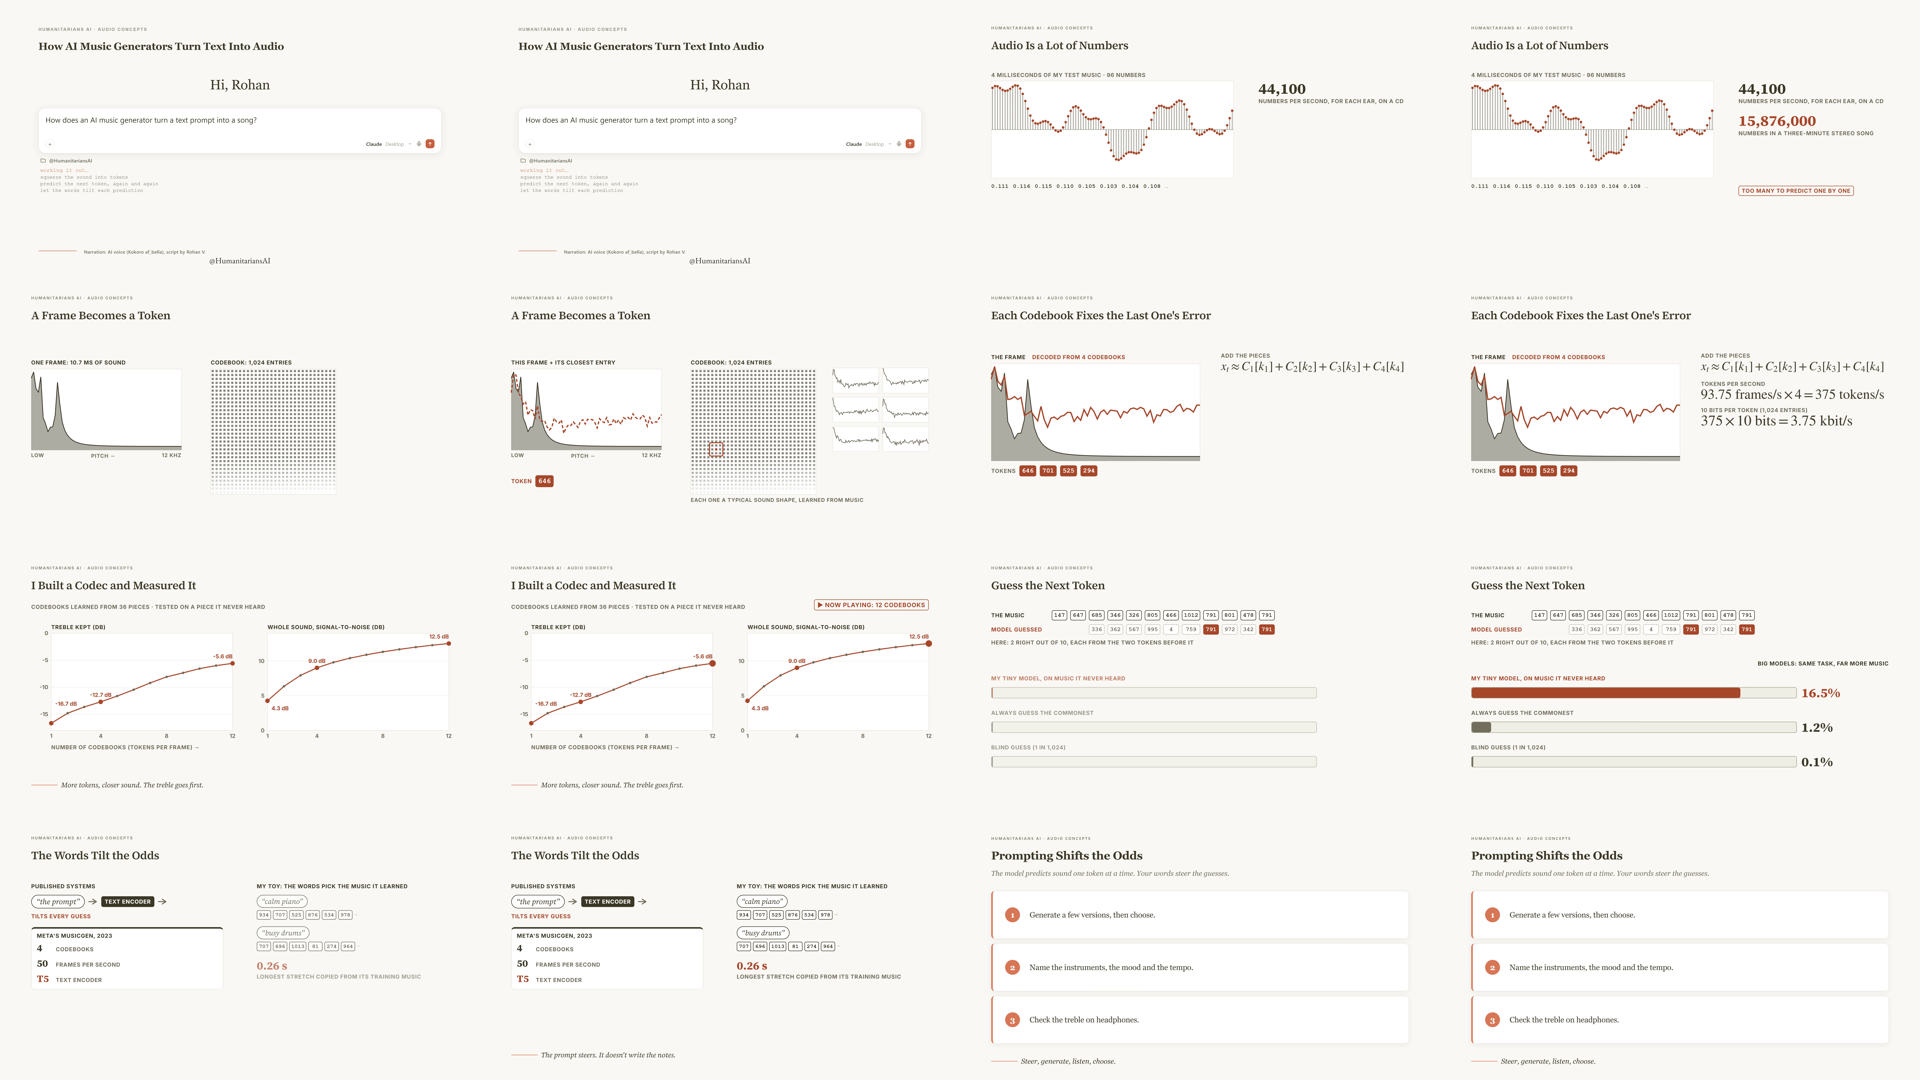
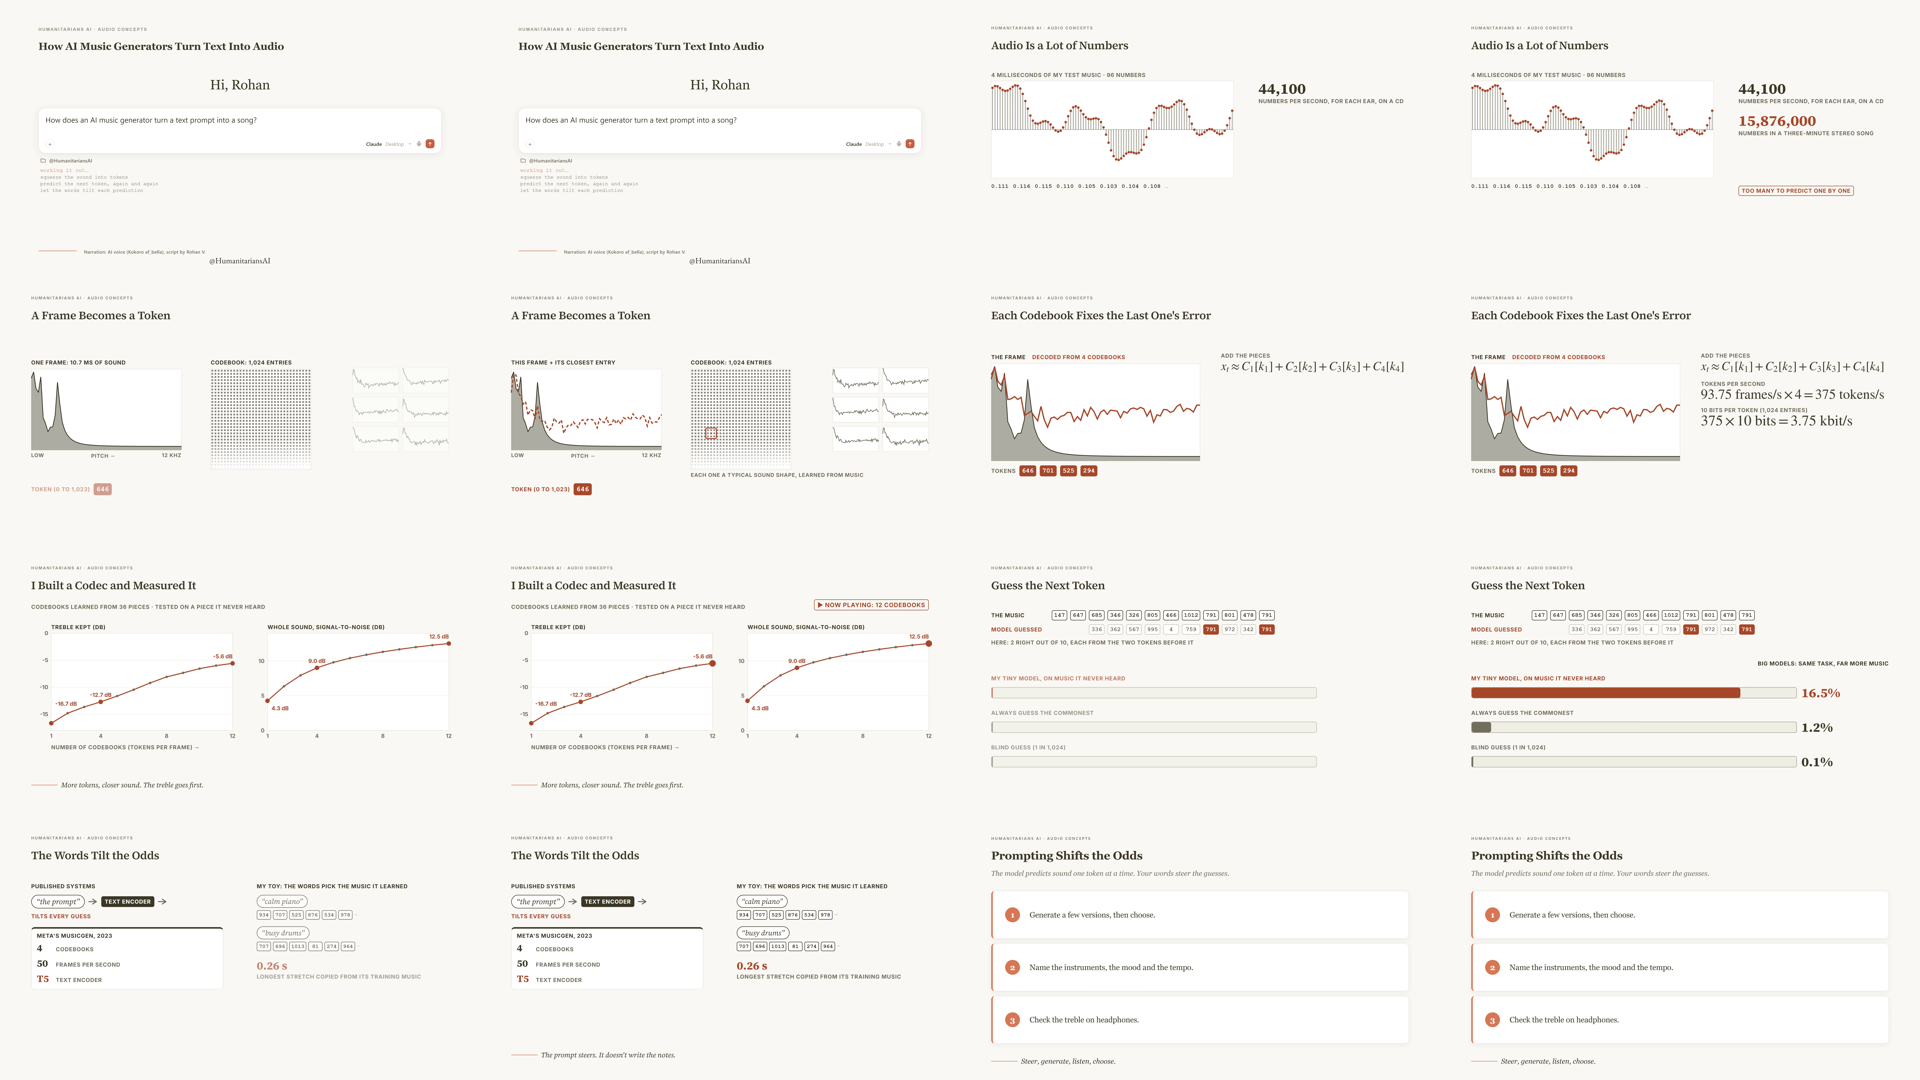
Rohan V. week of 2026-10-09: end-of-beat layout fixes, rebuilt 4K masters
Shazam B02/B03 and AI music B02 fixed (collisions at the end of each beat),
re-rendered at 4K, all four finals rebuilt and re-checked. BUILD-LOGs,
READMEs, TYPECHECK reports, beat sheets and QC sheets updated; Drive
copies re-uploaded and md5-verified.

diff --git a/fellows/rohan-v/2026-10-09-how-ai-music-turns-text-into-audio/scenes/TokCodebook.tsx b/fellows/rohan-v/2026-10-09-how-ai-music-turns-text-into-audio/scenes/TokCodebook.tsx
@@ -71,7 +71,7 @@ export const TokCodebook: React.FC<TokCodebookProps> = ({ eyebrow, title, sparkL
   );
 
   // codebook grid
-  const GW = portrait ? CW * 0.48 : CW * 0.3;
+  const GW = portrait ? CW * 0.36 : CW * 0.24;
   const cell = GW / 32;
   const GX = portrait ? PAD_X : PAD_X + CW * 0.43, GY = portrait ? height * 0.475 : height * 0.33;
   const chosen = tok0;
@@ -90,16 +90,16 @@ export const TokCodebook: React.FC<TokCodebookProps> = ({ eyebrow, title, sparkL
         {op(sClose) > 0.4 ? <rect x={(chosen % 32) * cell - cell * 1.2} y={Math.floor(chosen / 32) * cell - cell * 1.2} width={cell * 3.4} height={cell * 3.4}
           fill="none" stroke={SPARK_TEXT} strokeWidth={4} rx={6} /> : null}
       </svg>
-      <Label text={portrait ? 'LEARNED FROM MUSIC' : 'EACH ONE A TYPICAL SOUND SHAPE, LEARNED FROM MUSIC'} size={lbl * 0.95} opacity={op(sLearn)} style={{ marginTop: 10 }} />
+      {portrait ? null : <Label text="EACH ONE A TYPICAL SOUND SHAPE, LEARNED FROM MUSIC" size={lbl * 0.95} opacity={op(sLearn)} style={{ marginTop: 10 }} />}
     </div>
   );
 
   // example entries
   const ex: number[][] = TOK.codebook_examples;
-  const EW = portrait ? (CW * 0.48 - 20) / 2 : CW * 0.11, EH = EW * 0.55;
-  const EX = portrait ? PAD_X + CW * 0.52 : PAD_X + CW * 0.77, EY = GY + lbl * 1.6;
+  const EW = portrait ? (CW * 0.55 - 20) / 2 : CW * 0.11, EH = EW * 0.55;
+  const EX = portrait ? PAD_X + CW * 0.45 : PAD_X + CW * 0.77, EY = GY + lbl * 1.6;
   const examples = (
-    <div style={{ position: 'absolute', left: EX, top: EY, display: 'grid', gridTemplateColumns: `repeat(2, ${EW}px)`, gap: portrait ? 20 : 16 * U, opacity: op(sLearn) }}>
+    <div style={{ position: 'absolute', left: EX, top: EY, display: 'grid', gridTemplateColumns: `repeat(2, ${EW}px)`, gap: portrait ? 20 : 16 * U, opacity: 0.5 * op(sBook) + 0.5 * op(sLearn) }}>
       {ex.map((v, i) => (
         <svg key={i} width={EW} height={EH} style={{ overflow: 'visible' }}>
           <rect x={0} y={0} width={EW} height={EH} fill={CLAUDE.CARD} stroke={CLAUDE.BORDER} strokeWidth={1.5} />
@@ -110,8 +110,8 @@ export const TokCodebook: React.FC<TokCodebookProps> = ({ eyebrow, title, sparkL
   );
 
   const tokenRow = (size: number) => (
-    <div style={{ display: 'flex', alignItems: 'center', gap: size * 0.5, flexWrap: 'wrap', opacity: op(sTok) }}>
-      <Label text="TOKEN" size={lbl} color={SPARK_TEXT} />
+    <div style={{ display: 'flex', alignItems: 'center', gap: size * 0.5, flexWrap: 'wrap', opacity: portrait ? op(sTok) : 0.5 + 0.5 * op(sTok) }}>
+      <Label text={portrait ? 'TOKEN' : 'TOKEN (0 TO 1,023)'} size={lbl} color={SPARK_TEXT} />
       {row.slice(0, portrait ? 4 : 8).map((t, i) => <TokenBox key={i} n={t} size={size} accent={i === 0} opacity={i === 0 ? 1 : clamp(op(sRange) * 8 - i, 0, 1)} />)}
       <span style={{ opacity: op(sRange), fontFamily: HAI_TYPE.mono, fontSize: size, color: CLAUDE.INK_SOFT }}>…</span>
     </div>
@@ -123,7 +123,7 @@ export const TokCodebook: React.FC<TokCodebookProps> = ({ eyebrow, title, sparkL
       <AbsoluteFill style={{ background: CLAUDE.PAGE, overflow: 'hidden' }}>
         <BeatHead eyebrow="" title={title} inOp={headIn} titleSize={T.title} padX={PAD_X} height={height} width={width} portrait />
         {framePanel}{grid}{examples}
-        <div style={{ position: 'absolute', left: PAD_X, top: height * 0.71 }}>{tokenRow(T.label * 0.75)}</div>
+        <div style={{ position: 'absolute', left: PAD_X, top: height * 0.745 }}>{tokenRow(T.label * 0.7)}</div>
         <div style={{ position: 'absolute', left: PAD_X, top: height * 0.755 - 6, opacity: 0 }}>{rangeNote}</div>
         <PhoneBaseline padX={PAD_X} width={width} height={height} inOp={headIn * op(sCodec)} />
         <SparkLine text={sparkLine} inOp={sparkIn} padX={PAD_X} width={width} height={height} portrait top={height * 0.8} fontSize={T.spark} />
@@ -134,8 +134,7 @@ export const TokCodebook: React.FC<TokCodebookProps> = ({ eyebrow, title, sparkL
     <AbsoluteFill style={{ background: CLAUDE.PAGE, overflow: 'hidden' }}>
       <BeatHead eyebrow={eyebrow} title={title} inOp={headIn} padX={PAD_X} height={height} width={width} />
       {framePanel}{grid}{examples}
-      <div style={{ position: 'absolute', left: PAD_X, top: height * 0.76 }}>{tokenRow(28 * U)}</div>
-      <div style={{ position: 'absolute', right: PAD_X, top: height * 0.775 }}>{rangeNote}</div>
+      <div style={{ position: 'absolute', left: PAD_X, top: height * 0.79 }}>{tokenRow(28 * U)}</div>
       <SparkLine text={sparkLine} inOp={sparkIn} padX={PAD_X} width={width} height={height} />
     </AbsoluteFill>
   );

diff --git a/fellows/rohan-v/2026-10-09-how-shazam-finds-a-song/scenes/ShazamHashPairs.tsx b/fellows/rohan-v/2026-10-09-how-shazam-finds-a-song/scenes/ShazamHashPairs.tsx
@@ -49,7 +49,7 @@ export const ShazamHashPairs: React.FC<ShazamHashPairsProps> = ({ eyebrow, title
 
   const LAB = portrait ? 175 : 92 * U;
   const SW = portrait ? CW - LAB : CW * 0.6 - LAB;
-  const SH = portrait ? height * 0.25 : height * 0.5;
+  const SH = portrait ? height * 0.225 : height * 0.5;
   const SX = PAD_X + LAB;
   const SY = portrait ? height * 0.255 : height * 0.27;
   const lbl = portrait ? T.label * 0.68 : 22 * U;
@@ -120,13 +120,26 @@ export const ShazamHashPairs: React.FC<ShazamHashPairsProps> = ({ eyebrow, title
   );
 
   if (portrait) {
+    /* Phone: one compact card, every row its own line (the first phone cut stacked the rate stat on
+       the card header and ran the hash into the spark line at the end of the beat). */
+    const s = T.label * 0.74;
+    const line = (k: string, v: React.ReactNode, o: number, last = false) => (
+      <div style={{ display: 'flex', justifyContent: 'space-between', alignItems: 'baseline', padding: `${s * 0.2}px 0`, opacity: o,
+        borderBottom: last ? 'none' : `1px solid ${CLAUDE.BORDER}` }}>
+        <span style={{ fontFamily: HAI_TYPE.sans, fontSize: s * 0.8, fontWeight: 700, color: CLAUDE.INK_SOFT }}>{k}</span>
+        <span style={{ fontFamily: HAI_TYPE.mono, fontSize: s, fontWeight: 700, color: SPARK_TEXT }}>{v}</span>
+      </div>
+    );
     return (
       <AbsoluteFill style={{ background: CLAUDE.PAGE, overflow: 'hidden' }}>
         <BeatHead eyebrow="" title={title} inOp={headIn} titleSize={T.title} padX={PAD_X} height={height} width={width} portrait />
         {panel}
-        <div style={{ position: 'absolute', left: PAD_X, top: height * 0.56 }}>{card(CW, T.label * 0.85)}</div>
-        <div style={{ position: 'absolute', right: PAD_X, top: height * 0.56 + T.label * 0.6, opacity: op(sRate) }}>
-          <Stat value={`${SHZ.library.hashes_per_s}`} label="PER SECOND" size={T.title * 0.8} opacity={op(sRate)} accent />
+        <div style={{ position: 'absolute', left: PAD_X, top: height * 0.52, width: CW, boxSizing: 'border-box', background: CLAUDE.CARD,
+          border: `1.5px solid ${CLAUDE.BORDER}`, borderTop: `6px solid ${CLAUDE.INK}`, borderRadius: 16, padding: `${s * 0.5}px ${s * 0.7}px`, opacity: op(sThree) }}>
+          <div style={{ fontFamily: HAI_TYPE.sans, fontSize: s * 0.8, fontWeight: 800, letterSpacing: 1.2, color: CLAUDE.INK, marginBottom: s * 0.2 }}>THREE NUMBERS</div>
+          {rows.map((r) => line(r.k, r.v, op(sHere) * 0.6 + 0.4))}
+          {line(op(sHash) > 0.5 ? 'ONE HASH' : 'PACKED INTO ONE CODE', <span style={{ color: CLAUDE.INK }}>{fmt(H.packed)}</span>, op(sPacked))}
+          {line('MY VERSION, PER SECOND', `${SHZ.library.hashes_per_s} HASHES`, op(sRate), true)}
         </div>
         <PhoneBaseline padX={PAD_X} width={width} height={height} inOp={headIn} />
         <SparkLine text={sparkLine} inOp={sparkIn} padX={PAD_X} width={width} height={height} portrait top={height * 0.8} fontSize={T.spark} />

diff --git a/fellows/rohan-v/2026-10-09-how-shazam-finds-a-song/scenes/ShazamOffsetVote.tsx b/fellows/rohan-v/2026-10-09-how-shazam-finds-a-song/scenes/ShazamOffsetVote.tsx
@@ -120,8 +120,8 @@ export const ShazamOffsetVote: React.FC<ShazamOffsetVoteProps> = ({ eyebrow, tit
       <AbsoluteFill style={{ background: CLAUDE.PAGE, overflow: 'hidden' }}>
         <BeatHead eyebrow="" title={title} inOp={headIn} titleSize={T.title} padX={PAD_X} height={height} width={width} portrait />
         {plot}
-        <div style={{ position: 'absolute', left: PAD_X, top: height * 0.53 }}>{eqs}</div>
-        <div style={{ position: 'absolute', left: PAD_X, top: height * 0.675 }}>{hist}</div>
+        <div style={{ position: 'absolute', left: PAD_X, top: height * 0.555 }}>{eqs}</div>
+        <div style={{ position: 'absolute', left: PAD_X, top: height * 0.69 }}>{hist}</div>
         <PhoneBaseline padX={PAD_X} width={width} height={height} inOp={headIn} />
         <SparkLine text={sparkLine} inOp={sparkIn} padX={PAD_X} width={width} height={height} portrait top={height * 0.8} fontSize={T.spark} />
       </AbsoluteFill>
@@ -133,7 +133,7 @@ export const ShazamOffsetVote: React.FC<ShazamOffsetVoteProps> = ({ eyebrow, tit
       {plot}
       <div style={{ position: 'absolute', left: PAD_X + CW * 0.57, top: PY }}>{eqs}</div>
       <div style={{ position: 'absolute', left: PAD_X + CW * 0.57, top: PY + PH - HH - 30 * U }}>{hist}</div>
-      <div style={{ position: 'absolute', left: PX + PW * 0.52, top: PY + PH * 0.6, opacity: op(sScat) }}>
+      <div style={{ position: 'absolute', left: PAD_X + CW * 0.57, top: PY + PH + 14 * U, opacity: op(sScat) }}>
         <Chip text={`${pts.length - nOn} CHANCE MATCHES, SCATTERED`} size={22 * U} />
       </div>
       <SparkLine text={sparkLine} inOp={sparkIn} padX={PAD_X} width={width} height={height} />

diff --git a/fellows/rohan-v/2026-10-09-how-ai-music-turns-text-into-audio/vertical_strings.py b/fellows/rohan-v/2026-10-09-how-ai-music-turns-text-into-audio/vertical_strings.py
@@ -8,7 +8,7 @@ p = Path(__file__).resolve().parent / "vertical" / "beat_sheet.json"
 b = json.loads(p.read_text(encoding="utf-8"))
 SHORT = {
     "B01": {"title": "Audio Is Numbers", "sparkLine": "Sixteen million: too much to predict."},
-    "B02": {"title": "Frame to Token", "sparkLine": "Find the closest shape. Keep its number."},
+    "B02": {"title": "Frame to Token", "sparkLine": "Find the closest shape."},
     "B03": {"title": "Codebooks Stack", "sparkLine": "Add the pieces. Get closer."},
     "B04": {"title": "I Built a Codec", "sparkLine": "The treble goes first."},
     "B05": {"title": "The Next Token", "sparkLine": "Learn what follows."},

diff --git a/fellows/rohan-v/2026-10-09-how-ai-music-turns-text-into-audio/BUILD-LOG.md b/fellows/rohan-v/2026-10-09-how-ai-music-turns-text-into-audio/BUILD-LOG.md
@@ -72,21 +72,30 @@ to the overall accuracy (from 4.0 s: 2 of 10), and FACTCHECK says the window was
 - **Phone maths.** The four-term sum and a short "≈" can't reach the 9:16 floor at any width that fits,
   so the phone shows F ≈ A + B + C and the exact 1,411.2 ÷ 3.75 = 376.32.
 
+## 8 — The end of a beat, checked too late
+
+After Rohan found an end-of-beat collision in the Shazam 9:16, every beat of both videos was checked at
+97% of its length. Here, B02: in 16:9 the range note overlapped the codebook grid and the token row its
+bottom (the note moved into the token label, the grid made smaller, the token row and example entries
+shown faintly from the start so the mid-beat frame isn't underfilled); in 9:16 the token row sat on the
+grid's caption (caption dropped on the phone, the narration says it) and the spark line wrapped (now
+"Find the closest shape."). Re-rendered in 4K and both finals rebuilt.
+
 ## Render
 
 Masters (`./art final`, receipts `*.verified.json` beside each file; SHA-256 re-checked on copy):
 
 | Cut | File | Size | Length | SHA-256 |
 |---|---|---|---|---|
[4 lines of base64/hex data omitted]
 
 Gates on the accepted finals: GATE F pass; GATE T pass ([TYPECHECK.md](./TYPECHECK.md),
 [vertical/TYPECHECK.md](./vertical/TYPECHECK.md)); Gate V clean, 0 BLOCKER / 0 MAJOR
 (18 landscape and 18 portrait frames sampled). Looked at by eye: [qc-sheet-16x9.png](./qc-sheet-16x9.png),
 [qc-sheet-9x16.png](./qc-sheet-9x16.png).
 
-Landscape: the first final passed, then was rebuilt after the contact-sheet fixes in §7. Portrait: refused three times by GATE T §8.6b on B06 (the third was a run that still had the old B06), accepted, then rebuilt once more after the B05 fixes (§7). All on 2026-10-10.
+Landscape: the first final passed, then was rebuilt after the contact-sheet fixes in §7. Portrait: refused three times by GATE T §8.6b on B06 (the third was a run that still had the old B06), accepted, then rebuilt once more after the B05 fixes (§7), all on 2026-10-10. Both cuts were rebuilt again on 2026-10-11 after the end-of-beat fixes (§8); those are the finals in the table.
 
 Uploaded to Google Drive `2026-10-09/landscape/` and `2026-10-09/vertical/`; md5 of each Drive copy
-matches the local master.
+matches the local master (re-uploaded and re-checked 2026-10-11).

diff --git a/fellows/rohan-v/2026-10-09-how-shazam-finds-a-song/BUILD-LOG.md b/fellows/rohan-v/2026-10-09-how-shazam-finds-a-song/BUILD-LOG.md
@@ -72,21 +72,31 @@ noise labels wrapped onto two lines; in B06 the MATCH / NO MATCH chips wrapped u
 the rows grew into the stamp and footnote. All three phone layouts were tightened (shorter labels,
 no-wrap rows, taller cards), checked on 4K stills, re-rendered, and the portrait final rebuilt.
 
+## 9 — The end of a beat, checked too late
+
+Rohan spotted it in the delivered 9:16: at the end of B02 the "57 per second" stat landed on the card's
+header and the card ran into the spark line. The probes sampled each beat at 50% and 85%, before the last
+reveals. B02's phone card was rebuilt (every row on its own line, the rate as the last row, the panel
+shorter so the card clears the baseline), and every beat of both videos in both cuts was then checked at
+97%. That found two more here: the "79 chance matches" chip sat on the 16:9 scatter (moved under the
+histogram), and the 9:16 x-axis caption touched the equation (equations moved down). Re-rendered in 4K
+and all finals rebuilt.
+
 ## Render
 
 Masters (`./art final`, receipts `*.verified.json` beside each file; SHA-256 re-checked on copy):
 
 | Cut | File | Size | Length | SHA-256 |
 |---|---|---|---|---|
[4 lines of base64/hex data omitted]
 
 Gates on the accepted finals: GATE F pass; GATE T pass ([TYPECHECK.md](./TYPECHECK.md),
 [vertical/TYPECHECK.md](./vertical/TYPECHECK.md)); Gate V clean, 0 BLOCKER / 0 MAJOR
 (18 landscape and 18 portrait frames sampled). Looked at by eye: [qc-sheet-16x9.png](./qc-sheet-16x9.png),
 [qc-sheet-9x16.png](./qc-sheet-9x16.png).
 
-Landscape: accepted on the first final. Portrait: the first final passed every gate but its contact sheet showed three layout defects (§8); rebuilt and accepted on the second. All on 2026-10-10.
+Landscape: accepted on the first final (2026-10-10). Portrait: the first final passed every gate but its contact sheet showed three layout defects (§8); rebuilt and accepted on the second (2026-10-10). Both cuts were rebuilt again on 2026-10-11 after the end-of-beat fixes (§9); those are the finals in the table.
 
 Uploaded to Google Drive `2026-10-09/landscape/` and `2026-10-09/vertical/`; md5 of each Drive copy
-matches the local master.
+matches the local master (re-uploaded and re-checked 2026-10-11).

diff --git a/fellows/rohan-v/2026-10-09-how-shazam-finds-a-song/README.md b/fellows/rohan-v/2026-10-09-how-shazam-finds-a-song/README.md
@@ -33,7 +33,7 @@ the series (AI voice, disclosed on screen).
 
 ## Reproduce
 
-**Brutalist version/commit and date checked:** `8935f5a`, checked 2026-10-10: origin/main `b21f625`
+**Brutalist version/commit and date checked:** `79eff6b`, checked 2026-10-10: origin/main `b21f625`
 merged locally that day, plus local commits adding this week's scenes and fixes (not pushed
 upstream; the scene files are copied into [`scenes/`](./scenes/) here).
 
@@ -61,9 +61,9 @@ record is required for this reel type; none is claimed.
 
 ## Watch and review
 
[2 lines of base64/hex data omitted]
 
[2 lines of base64/hex data omitted]
 
 Week folder on Drive: [`2026-10-09/`](https://drive.google.com/drive/folders/1JXFqKVB5WenIxrkxeeEGG_0JOfO8Z0_b)
 

diff --git a/fellows/rohan-v/2026-10-09-how-ai-music-turns-text-into-audio/README.md b/fellows/rohan-v/2026-10-09-how-ai-music-turns-text-into-audio/README.md
@@ -33,7 +33,7 @@ the series (AI voice, disclosed on screen).
 
 ## Reproduce
 
-**Brutalist version/commit and date checked:** `8935f5a`, checked 2026-10-10: origin/main `b21f625`
+**Brutalist version/commit and date checked:** `79eff6b`, checked 2026-10-10: origin/main `b21f625`
 merged locally that day, plus local commits adding this week's scenes and fixes (not pushed
 upstream; the scene files are copied into [`scenes/`](./scenes/) here).
 
@@ -61,9 +61,9 @@ record is required for this reel type; none is claimed.
 
 ## Watch and review
 
[2 lines of base64/hex data omitted]
 
[2 lines of base64/hex data omitted]
 
 Week folder on Drive: [`2026-10-09/`](https://drive.google.com/drive/folders/1JXFqKVB5WenIxrkxeeEGG_0JOfO8Z0_b)
 

diff --git a/fellows/rohan-v/2026-10-09-how-shazam-finds-a-song/vertical/TYPECHECK.md b/fellows/rohan-v/2026-10-09-how-shazam-finds-a-song/vertical/TYPECHECK.md
@@ -1,6 +1,6 @@
 # TYPECHECK.md — GATE T
 
-Reel: `shazam-fingerprint-explainer-vertical`  |  Checked: 2026-10-10T22:08  |  Overall: PASS  |  Beats checked: 9  |  FAILs: 0
+Reel: `shazam-fingerprint-explainer-vertical`  |  Checked: 2026-10-11T00:40  |  Overall: PASS  |  Beats checked: 9  |  FAILs: 0
 
 Spec: `skills/make/kerning/reference/type-spec.md` §8.  Floor: 1.9% frame-height.  Contrast: 4.5:1 WCAG.  Kern threshold: 3.5× expected advance.  Wordy budget: 2 elements.
 

diff --git a/fellows/rohan-v/2026-10-09-how-ai-music-turns-text-into-audio/vertical/TYPECHECK.md b/fellows/rohan-v/2026-10-09-how-ai-music-turns-text-into-audio/vertical/TYPECHECK.md
@@ -1,6 +1,6 @@
 # TYPECHECK.md — GATE T
 
-Reel: `ai-music-tokens-explainer-vertical`  |  Checked: 2026-10-10T23:17  |  Overall: PASS  |  Beats checked: 9  |  FAILs: 0
+Reel: `ai-music-tokens-explainer-vertical`  |  Checked: 2026-10-11T00:51  |  Overall: PASS  |  Beats checked: 9  |  FAILs: 0
 
 Spec: `skills/make/kerning/reference/type-spec.md` §8.  Floor: 1.9% frame-height.  Contrast: 4.5:1 WCAG.  Kern threshold: 3.5× expected advance.  Wordy budget: 2 elements.
 

diff --git a/fellows/rohan-v/2026-10-09-how-shazam-finds-a-song/TYPECHECK.md b/fellows/rohan-v/2026-10-09-how-shazam-finds-a-song/TYPECHECK.md
@@ -1,6 +1,6 @@
 # TYPECHECK.md — GATE T
 
-Reel: `shazam-fingerprint-explainer`  |  Checked: 2026-10-10T20:37  |  Overall: PASS  |  Beats checked: 9  |  FAILs: 0
+Reel: `shazam-fingerprint-explainer`  |  Checked: 2026-10-11T00:35  |  Overall: PASS  |  Beats checked: 9  |  FAILs: 0
 
 Spec: `skills/make/kerning/reference/type-spec.md` §8.  Floor: 1.9% frame-height.  Contrast: 4.5:1 WCAG.  Kern threshold: 3.5× expected advance.  Wordy budget: 2 elements.
 

diff --git a/fellows/rohan-v/2026-10-09-how-ai-music-turns-text-into-audio/TYPECHECK.md b/fellows/rohan-v/2026-10-09-how-ai-music-turns-text-into-audio/TYPECHECK.md
@@ -1,6 +1,6 @@
 # TYPECHECK.md — GATE T
 
-Reel: `ai-music-tokens-explainer`  |  Checked: 2026-10-10T22:49  |  Overall: PASS  |  Beats checked: 9  |  FAILs: 0
+Reel: `ai-music-tokens-explainer`  |  Checked: 2026-10-11T00:46  |  Overall: PASS  |  Beats checked: 9  |  FAILs: 0
 
 Spec: `skills/make/kerning/reference/type-spec.md` §8.  Floor: 1.9% frame-height.  Contrast: 4.5:1 WCAG.  Kern threshold: 3.5× expected advance.  Wordy budget: 2 elements.
 
